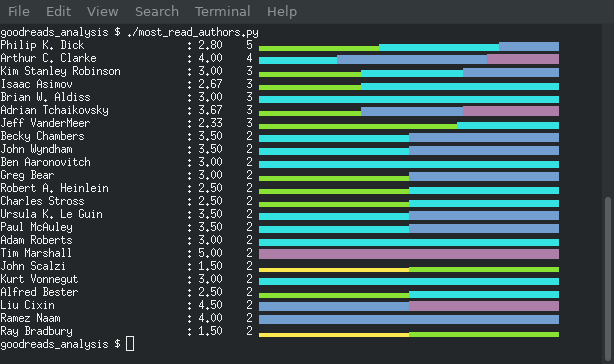
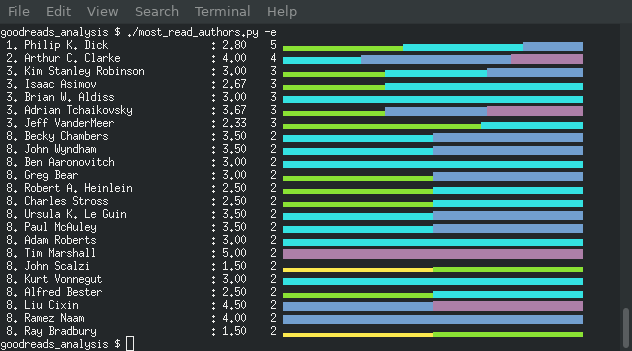
Update docs for -e argument starting to be more widely available

diff --git a/REPORTS.md b/REPORTS.md
@@ -99,6 +99,11 @@ on your particular ratings will filter out books which you have not read.
 Scripts accepting a `-l <number>` argument will output no more than the
 specified number of results.
 
+### Enumerating/ranking results
+
+Scripts accepting a '-e' argument will print 1, 2, 3, 4, etc at the start of
+each line, or 1, 2, 2, 4, 4, 4, 7 etc where ranking numbers are more applicable.
+
 ### Colour configuration
 
 Scripts accepting a `-c <colour-config-file>` argument will take a JSON
@@ -195,14 +200,14 @@ Output a list of books (in arbitrary order) matching the supplied filters.
 
 Arguments accepted:
 
+* `-e` - Enumerate books (i.e. prepend 1, 2, 3, etc to each line)
 * `-f filters`
-* `-s sort_properties`
-* `-e` - Enumerate output i.e. print 1, 2, 3, 4, etc at the start of each line
 * `-i separator` - Rather than the default of one book per line, output the books inline, separated by given characters
 * `-I separator` - As -i, but line break whenever a sort value changes
 * `-m format` - Use a custom output format, with property names in curly parentheses {}
 * `-p properties` - Also output the values of the specified properties.
 * `-P` - Output a list of supported property names
+* `-s sort_properties`
 
 
 ### year_on_year_by_*.py
@@ -257,8 +262,9 @@ average rating.
 
 Arguments accepted:
 
-* `-f filters`
 * `-a` - Show all authors/contributors to a book, not just the primary one
+* `-e` - Rank authors (i.e. prepend 1, 2, 2, 4, etc on each line)
+* `-f filters`
 
 
 ### most_recently_read_shelves.py
